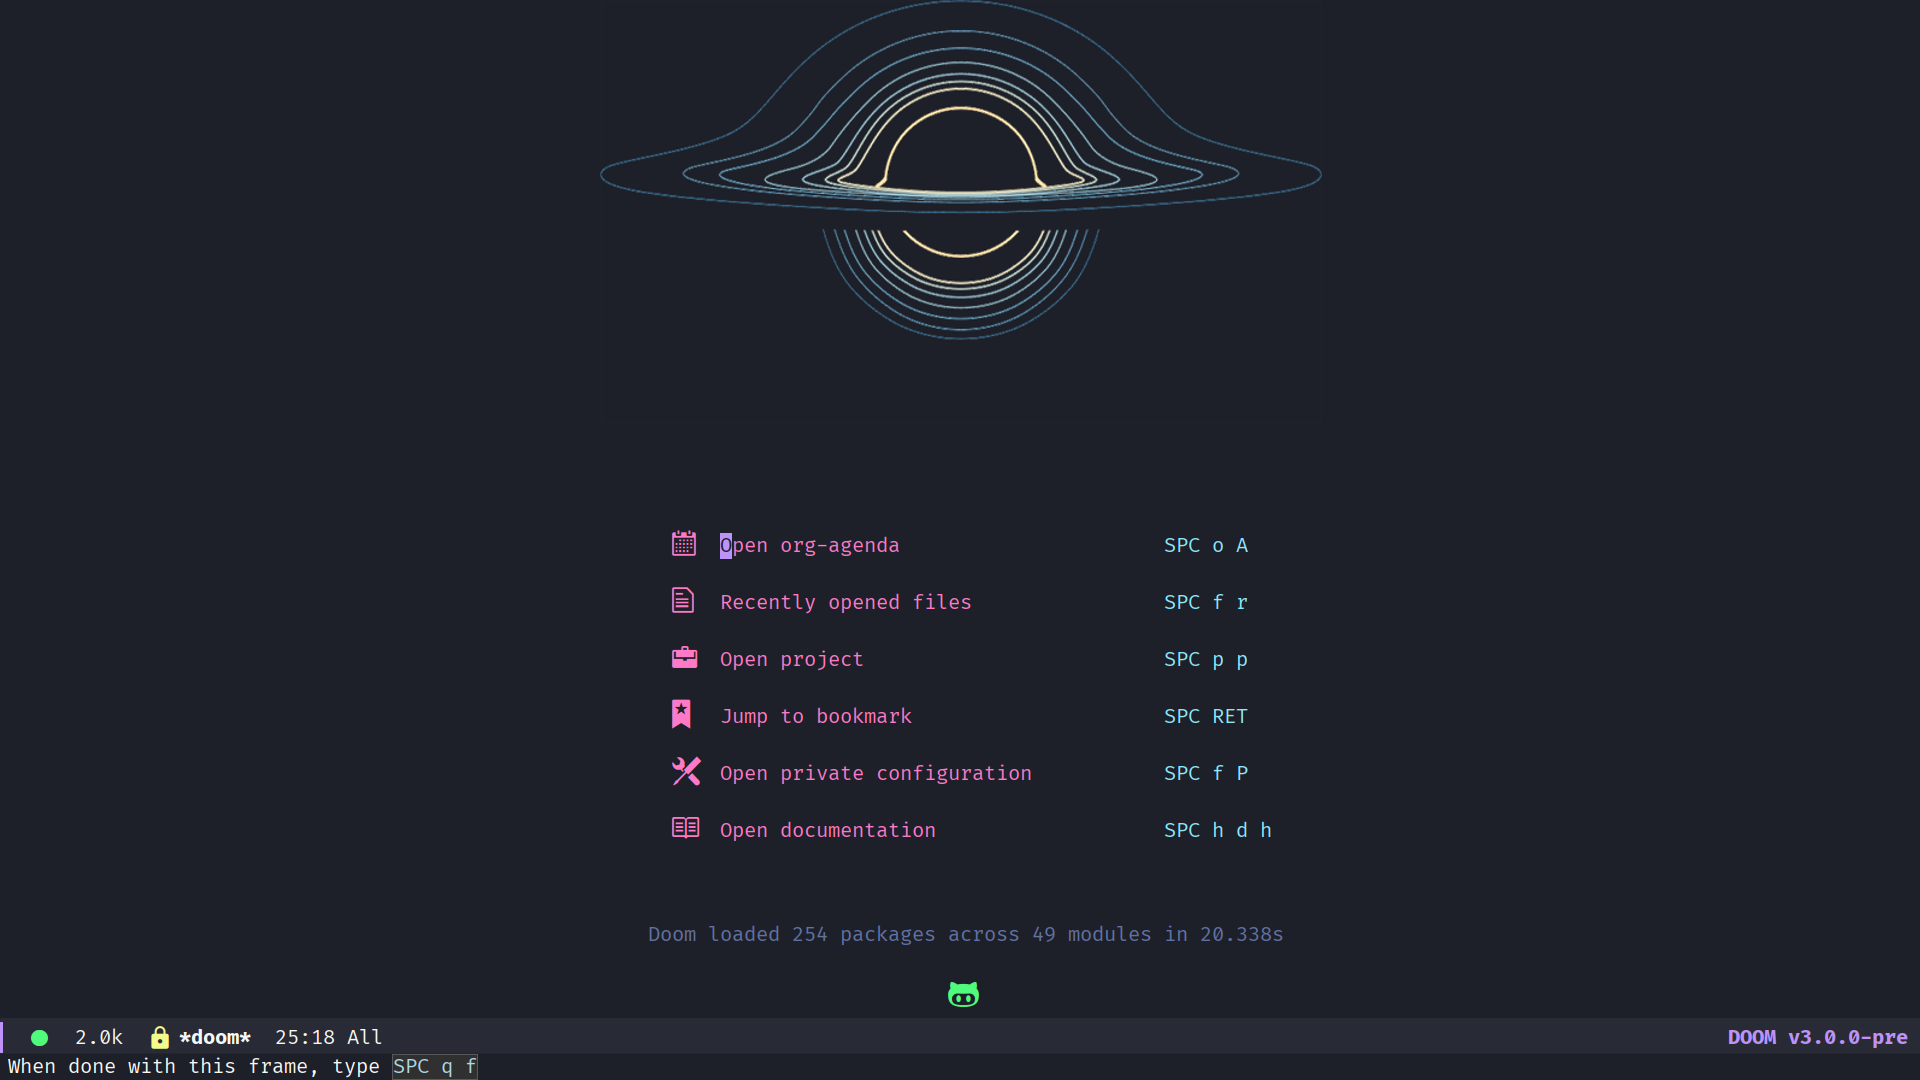
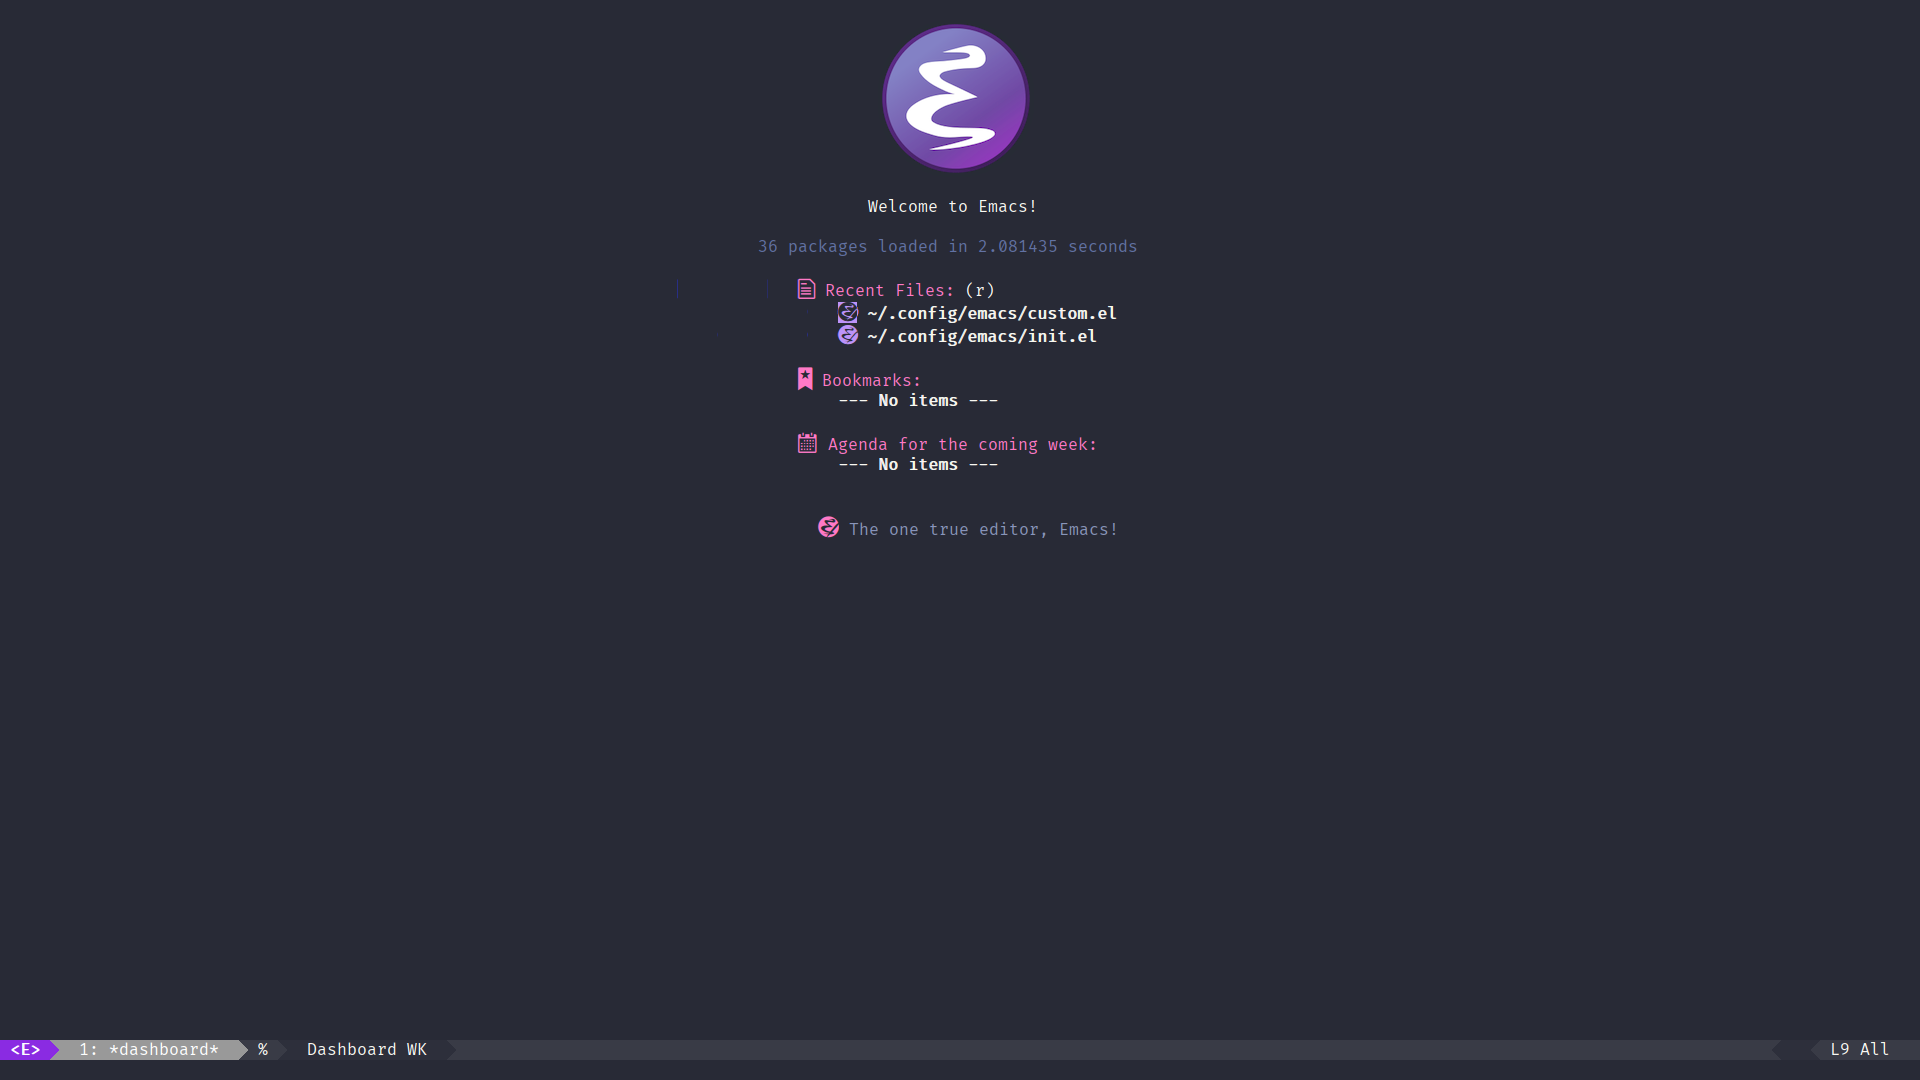
Changed emacs and firefox screenshots

diff --git a/README.md b/README.md
@@ -9,11 +9,11 @@ My dotfiles
 ![Desktop](./screenshots/desktop.png "Desktop")
 ![Neofetch](./screenshots/neofetch.png "Neofetch")
 
-## Emacs (Doom)
+## Emacs
 
-![Doom Emacs](./screenshots/emacs.png "Doom Emacs")
+![Emacs](./screenshots/emacs.png "Emacs")
 
-![Doom Emacs](./screenshots/emacs2.png "Doom Emacs")
+![Emacs](./screenshots/emacs2.png "Emacs")
 
 ## Firefox
 
